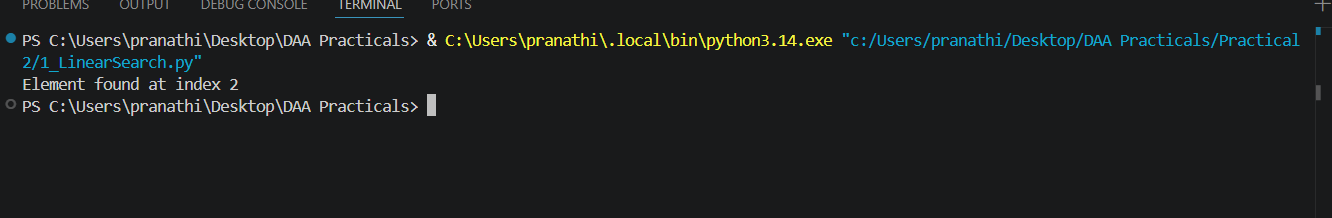
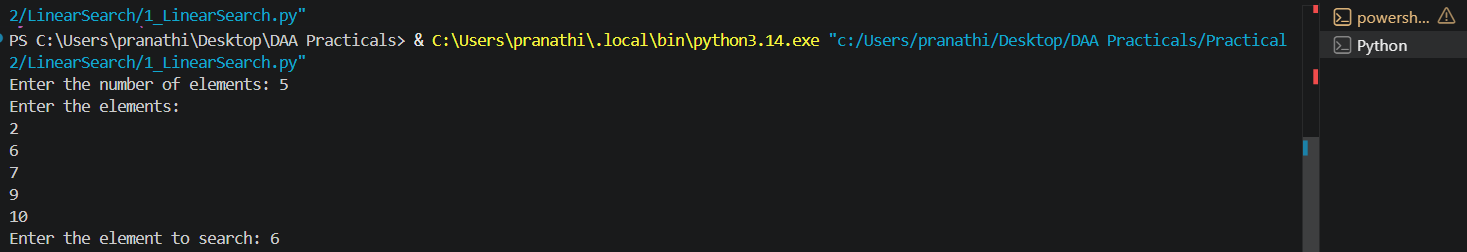
LinearSearch

diff --git a/Practical 2/LinearSearch/1_LinearSearch.py b/Practical 2/LinearSearch/1_LinearSearch.py
@@ -1,12 +1,15 @@
-def linear_search(arr, key):
-    for i in range(len(arr)):
-        if arr[i] == key:
-            return i
-    return -1
-arr = [10, 20, 30, 40, 50]
-key = 30
-result = linear_search(arr, key)
-if result == -1:
-    print("Element not found")
+n = int(input("Enter the number of elements: "))
+
+arr = []
+print("Enter the elements:")
+for i in range(n):
+    arr.append(int(input()))
+
+key = int(input("Enter the element to search: "))
+
+for i in range(n):
+    if arr[i] == key:
+        print("Element found at position", i + 1)
+        break
 else:
-    print("Element found at index", result)
+    print("Element not found")
